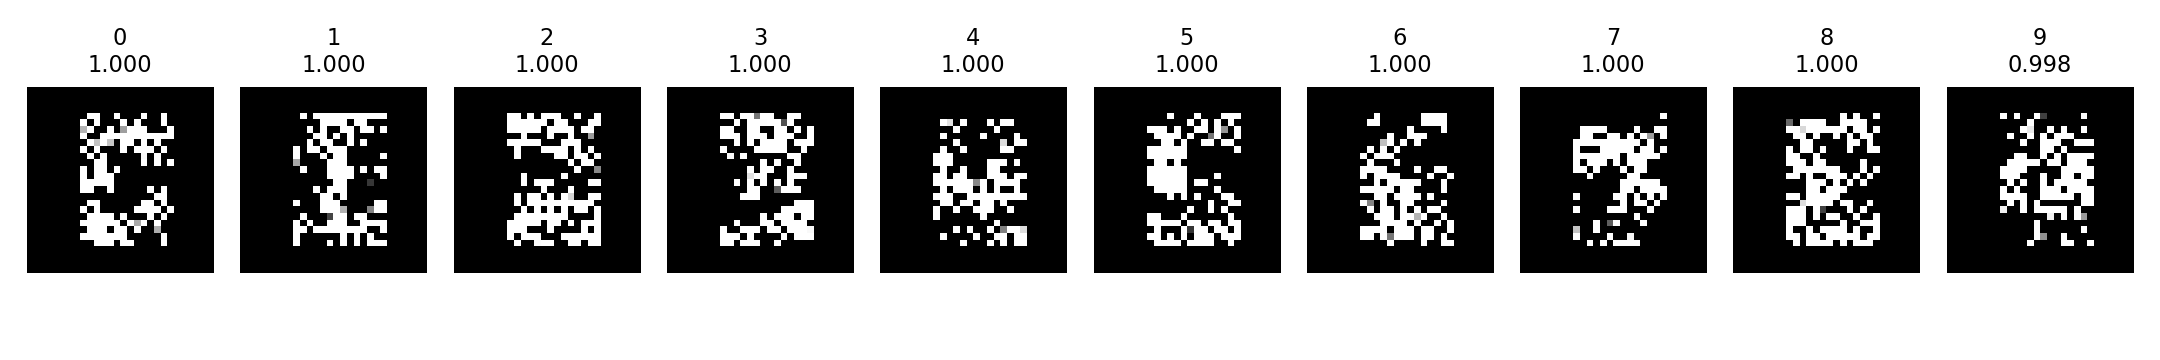
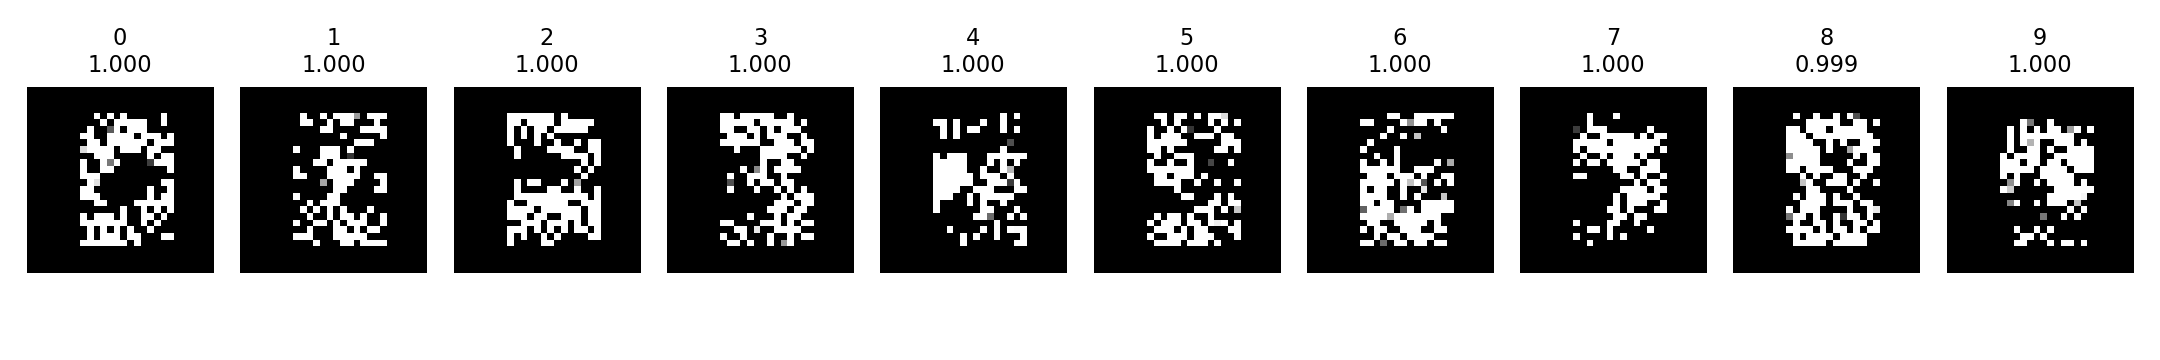
Final Commit

diff --git a/02_MLP/src/deep_dream.py b/02_MLP/src/deep_dream.py
@@ -61,6 +61,6 @@ def dream_until(model,no,target_prob=0.99,max_steps=400,learning_rate=0.02,attem
 
 
 if __name__ == "__main__":
-    actives, X = dream(1000,0.01,5)
+    actives, X = dream(2000,0.01,6)
     plt.imshow(X.reshape(28,28))
     plt.show()

diff --git a/02_MLP/README.md b/02_MLP/README.md
@@ -1,4 +1,4 @@
-# MNIST MLP Deep Dream
+# MNIST MLP Activation Maximization
 
 This project trains a small neural network on MNIST digits using only NumPy, then asks the trained model what input image would strongly activate each output digit.
 
@@ -8,7 +8,7 @@ The result is a compact end-to-end demo:
 2. Train a one-hidden-layer MLP.
 3. Save the trained weights.
 4. Plot training accuracy.
-5. Generate one "dreamed" image for each digit `0-9`.
+5. Generate one activation-maximized image for each digit `0-9`.
 
 ## How It Works
 
@@ -18,18 +18,11 @@ The model is a simple MLP:
 784 input pixels -> 10 ReLU hidden units -> 10 softmax outputs
 ```
 
-After training, deep dream starts from random pixels and repeatedly adjusts the image to increase the target digit's output probability. Simple image priors keep the result centered and remove faint pixels, so the final images show what the network looks for when it sees each digit.
+After training, activation maximization starts from random pixels and repeatedly adjusts the image to increase the target digit's output probability. Simple MNIST-inspired priors keep the result centered and remove faint pixels, so the final images show what the network looks for when it predicts each digit.
 
 ## Run
 
-Place these files in `data/`:
-
-```text
-mnist_train.csv
-mnist_test.csv
-```
-
-Then run:
+The MNIST CSV files are included in `data/`, so the full pipeline can be run directly:
 
 ```bash
 python main.py
@@ -51,7 +44,7 @@ Training accuracy:
 
 What the neural network sees for each digit:
 
-![Deep dream digits](outputs/plots/deep_dream_digits.png)
+![Activation maximization digits](outputs/plots/deep_dream_digits.png)
 
 ## Project Structure
 
@@ -59,11 +52,10 @@ What the neural network sees for each digit:
 src/dataset.py      Load MNIST and optional noise data
 src/model.py        NumPy MLP forward pass
 src/train.py        Training loop and gradient descent
-src/deep_dream.py   Pixel optimization for digit dreams
+src/utils.py        Softmax, ReLU, derivatives, and accuracy
+src/deep_dream.py   Activation maximization for digit images
 src/inference.py    Weight loading and drawing UI helpers
 main.py             Reproducible end-to-end pipeline
 ```
 
-## Notes
 
-The training curve is training accuracy, not loss. The deep dream image for a digit stops when that digit's softmax probability reaches `0.99`, or when the maximum number of steps is reached.